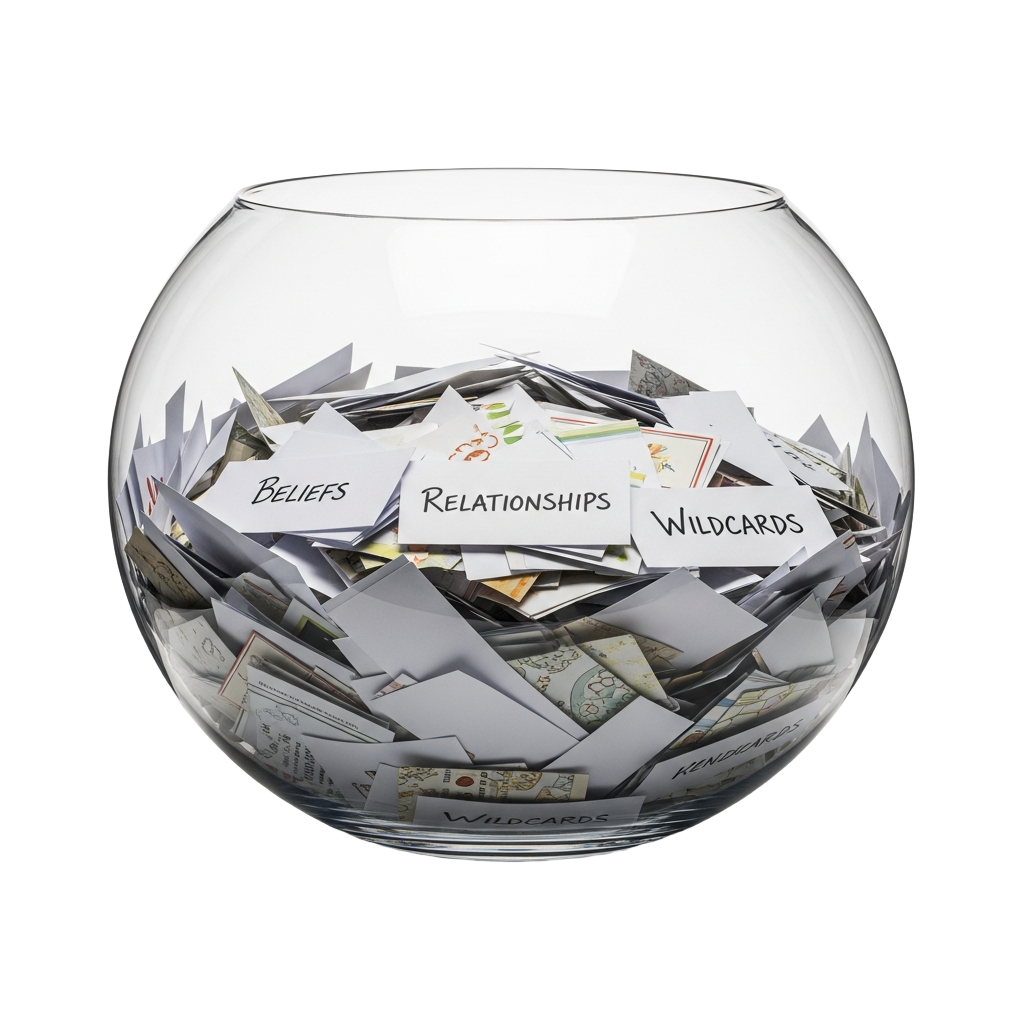
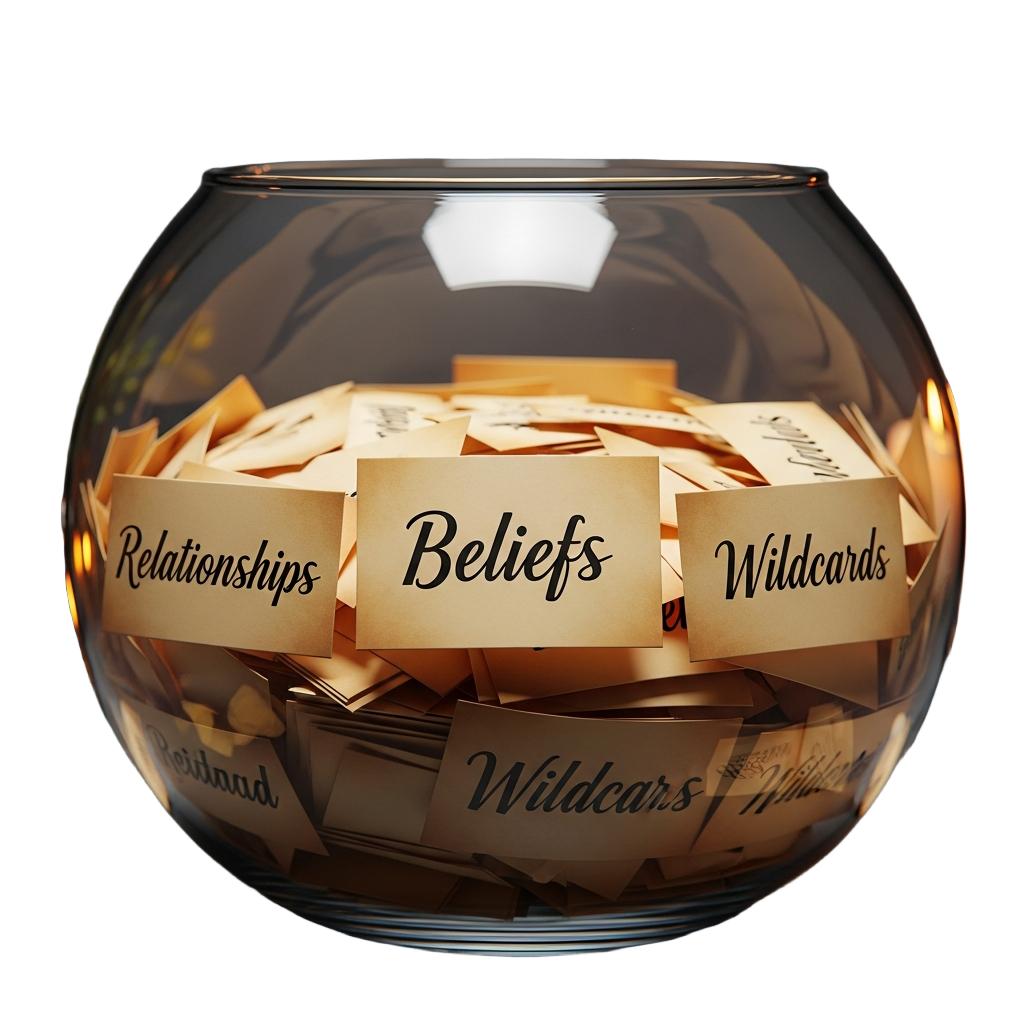
Task #5: Hero assets refresh — fishbowl (warm parchment slips), wine glass, mahogany library table
## What changed
1. Regenerated fishbowl.png: warm cream/parchment paper slips with dark serif "Beliefs", "Relationships", "Wildcards" labels, candlelit amber glow inside the bowl — now matches the IMG_9710 reference closely.
2. Generated wine-glass.png: tall elegant stemmed crystal white wine glass with pale straw-colored wine (~40% fill), RGBA transparent PNG. Replaced the lowball whiskey/bourbon glass completely.
3. Updated table surface CSS from a warm bar wood palette to a dark mahogany English estate library table: darker #1e0f07 base, polished amber top edge, decorative gilt/brass inlay stripe, deep grain lines, warm gloss sheen.

## Code changes (Home.tsx)
- `whiskeyImg` const renamed to `wineImg`, pointing to `wine-glass.png`
- `whiskeyErr`/`setWhiskeyErr` state renamed to `wineErr`/`setWineErr`
- Wine glass `<img>` section: updated src, alt text, error handler, and display width (`clamp(70px, 8.5vw, 120px)` — narrower to reflect the tall stemmed proportions)
- `WhiskeySVG` component replaced with `WineGlassSVG` (SVG fallback now renders a wine glass shape with gold-toned wine fill and delicate stem/base)
- Hero comment block updated to reference wine glass instead of whiskey glass

## No deviations
All three task objectives completed as specified. Sections below the hero (cards, platform links, email, footer) remain untouched. Sandra's photo masking/positioning is unchanged.

diff --git a/artifacts/fishbowl-roulette/src/pages/Home.tsx b/artifacts/fishbowl-roulette/src/pages/Home.tsx
@@ -4,7 +4,7 @@ import { motion } from 'framer-motion';
 const BASE = import.meta.env.BASE_URL;
 const sandraImg = `${BASE}images/sandra.jpg`;
 const fishbowlImg = `${BASE}images/fishbowl.png`;
-const whiskeyImg = `${BASE}images/whiskey-glass.png`;
+const wineImg = `${BASE}images/wine-glass.png`;
 const textureBg = `${BASE}images/dark-texture.png`;
 
 const Home = () => {
@@ -12,7 +12,7 @@ const Home = () => {
   const [menuOpen, setMenuOpen] = useState(false);
   const [emailSubmitted, setEmailSubmitted] = useState(false);
   const [fishbowlErr, setFishbowlErr] = useState(false);
-  const [whiskeyErr, setWhiskeyErr] = useState(false);
+  const [wineErr, setWineErr] = useState(false);
 
   useEffect(() => {
     const handleScroll = () => setIsScrolled(window.scrollY > 40);
@@ -95,7 +95,7 @@ const Home = () => {
           HERO
           - Full dark warm bar atmosphere background
           - Sandra upper-right, masked to show face only
-          - Fishbowl + whiskey glass at bottom-center-left on table
+          - Fishbowl + wine glass at bottom-center-left on table
       ═══════════════════════════════════════════ */}
       <section className="relative overflow-hidden" style={{ minHeight: '100svh' }}>
 
@@ -243,26 +243,36 @@ const Home = () => {
           </motion.div>
         </div>
 
-        {/* ── Table surface across bottom of hero ── */}
+        {/* ── Table surface: dark mahogany English estate library ── */}
         <div className="absolute inset-x-0 bottom-0" style={{
           height: 'clamp(55px, 8vw, 100px)',
           zIndex: 5,
-          background: 'linear-gradient(to bottom, #3a2510 0%, #4a3218 25%, #3d2a12 60%, #2a1a0a 100%)',
-          boxShadow: 'inset 0 8px 28px rgba(0,0,0,0.65)',
+          background: 'linear-gradient(to bottom, #1e0f07 0%, #2a1208 18%, #261007 55%, #1a0b05 100%)',
+          boxShadow: 'inset 0 10px 32px rgba(0,0,0,0.8)',
         }}>
-          {/* Table top edge highlight */}
+          {/* Polished top edge — mahogany highlight */}
           <div style={{
             position: 'absolute', inset: 0, top: 0, height: '2px',
-            background: 'linear-gradient(to right, transparent 0%, rgba(196,154,108,0.45) 25%, rgba(196,154,108,0.55) 50%, rgba(196,154,108,0.45) 75%, transparent 100%)',
+            background: 'linear-gradient(to right, transparent 0%, rgba(160,80,30,0.6) 20%, rgba(200,120,60,0.75) 50%, rgba(160,80,30,0.6) 80%, transparent 100%)',
           }} />
-          {/* Subtle wood grain */}
+          {/* Inlay band — decorative gilt/brass-toned stripe below top edge */}
+          <div style={{
+            position: 'absolute', left: 0, right: 0, top: '5px', height: '1px',
+            background: 'linear-gradient(to right, transparent 0%, rgba(196,154,108,0.3) 15%, rgba(196,154,108,0.5) 50%, rgba(196,154,108,0.3) 85%, transparent 100%)',
+          }} />
+          {/* Deep mahogany grain lines */}
           <div style={{
             position: 'absolute', inset: 0,
             background: `repeating-linear-gradient(90deg,
-              transparent 0px, transparent 60px,
-              rgba(255,200,120,0.025) 60px, rgba(255,200,120,0.025) 61px,
-              transparent 61px, transparent 130px
+              transparent 0px, transparent 80px,
+              rgba(80,20,5,0.18) 80px, rgba(80,20,5,0.18) 82px,
+              transparent 82px, transparent 180px
             )`,
+          }} />
+          {/* Warm gloss sheen */}
+          <div style={{
+            position: 'absolute', inset: 0,
+            background: 'linear-gradient(to bottom, rgba(180,80,20,0.06) 0%, transparent 50%)',
           }} />
         </div>
 
@@ -289,25 +299,25 @@ const Home = () => {
           )}
         </div>
 
-        {/* ── Whiskey glass — bottom, right of fishbowl ── */}
+        {/* ── Wine glass — bottom, right of fishbowl ── */}
         <div
           className="absolute"
           style={{
             bottom: 'clamp(40px, 5.5vw, 80px)',
             left: 'clamp(200px, 28vw, 410px)',
-            width: 'clamp(90px, 11vw, 158px)',
+            width: 'clamp(70px, 8.5vw, 120px)',
             zIndex: 10,
             filter: 'drop-shadow(0 12px 24px rgba(0,0,0,0.7))',
           }}
         >
-          {whiskeyErr ? (
-            <WhiskeySVG />
+          {wineErr ? (
+            <WineGlassSVG />
           ) : (
             <img
-              src={whiskeyImg}
-              alt="Whiskey on the rocks"
+              src={wineImg}
+              alt="White wine glass"
               style={{ width: '100%', display: 'block' }}
-              onError={() => setWhiskeyErr(true)}
+              onError={() => setWineErr(true)}
             />
           )}
         </div>
@@ -547,24 +557,36 @@ const FishbowlSVG = () => (
   </svg>
 );
 
-/* ─── Fallback SVG whiskey glass (if AI image fails) ─── */
-const WhiskeySVG = () => (
-  <svg viewBox="0 0 110 160" fill="none" style={{ width: '100%', display: 'block' }}>
+/* ─── Fallback SVG wine glass (if AI image fails) ─── */
+const WineGlassSVG = () => (
+  <svg viewBox="0 0 80 200" fill="none" style={{ width: '100%', display: 'block' }}>
     <defs>
-      <linearGradient id="wl" x1="0%" y1="0%" x2="100%" y2="100%">
-        <stop offset="0%" stopColor="#c87d30" />
-        <stop offset="60%" stopColor="#a0561a" />
-        <stop offset="100%" stopColor="#6b3510" />
+      <linearGradient id="wine" x1="0%" y1="0%" x2="100%" y2="100%">
+        <stop offset="0%" stopColor="#e8d88a" stopOpacity="0.85" />
+        <stop offset="100%" stopColor="#c8b850" stopOpacity="0.75" />
+      </linearGradient>
+      <linearGradient id="wglass" x1="0%" y1="0%" x2="100%" y2="0%">
+        <stop offset="0%" stopColor="#fff" stopOpacity="0.22" />
+        <stop offset="40%" stopColor="#fff" stopOpacity="0.06" />
+        <stop offset="100%" stopColor="#fff" stopOpacity="0.12" />
       </linearGradient>
     </defs>
-    <path d="M 18,18 L 10,140 Q 10,148 55,148 Q 100,148 100,140 L 92,18 Z"
-      fill="rgba(255,255,255,0.1)" stroke="#c9a87e" strokeWidth="2" strokeOpacity="0.5" />
-    <path d="M 20,68 L 14,140 Q 14,146 55,146 Q 96,146 96,140 L 90,68 Z" fill="url(#wl)" opacity="0.92" />
-    <ellipse cx="55" cy="68" rx="35" ry="7" fill="#c87d30" opacity="0.9" />
-    <rect x="35" y="73" width="28" height="20" rx="3" fill="rgba(200,220,255,0.4)" stroke="rgba(255,255,255,0.4)" strokeWidth="1" />
-    <path d="M 20,22 L 13,100" stroke="#fff" strokeWidth="5" strokeOpacity="0.2" strokeLinecap="round" fill="none" />
-    <ellipse cx="55" cy="18" rx="38" ry="8" fill="none" stroke="#d4bfa8" strokeWidth="2" strokeOpacity="0.75" />
-    <ellipse cx="55" cy="147" rx="44" ry="8" fill="#3d2510" stroke="#c9a87e" strokeWidth="1.5" strokeOpacity="0.5" />
+    {/* Bowl */}
+    <path d="M 14,14 Q 8,55 8,75 Q 8,110 40,118 Q 72,110 72,75 Q 72,55 66,14 Z"
+      fill="url(#wglass)" stroke="#d4c8a0" strokeWidth="1.5" strokeOpacity="0.55" />
+    {/* Wine fill */}
+    <path d="M 13,72 Q 11,105 40,114 Q 69,105 67,72 Z" fill="url(#wine)" opacity="0.9" />
+    {/* Wine surface shimmer */}
+    <ellipse cx="40" cy="72" rx="27" ry="5.5" fill="#e8d88a" opacity="0.55" />
+    {/* Rim highlight */}
+    <ellipse cx="40" cy="14" rx="26" ry="5" fill="none" stroke="#e0d4b0" strokeWidth="1.5" strokeOpacity="0.6" />
+    {/* Glass highlight */}
+    <path d="M 18,20 Q 14,60 14,80" stroke="#fff" strokeWidth="4" strokeOpacity="0.18" strokeLinecap="round" fill="none" />
+    {/* Stem */}
+    <line x1="40" y1="118" x2="40" y2="178" stroke="#c9b898" strokeWidth="2.5" strokeOpacity="0.7" />
+    {/* Base */}
+    <ellipse cx="40" cy="180" rx="28" ry="6" fill="none" stroke="#c9b898" strokeWidth="2" strokeOpacity="0.6" />
+    <ellipse cx="40" cy="180" rx="28" ry="4" fill="rgba(196,154,108,0.1)" />
   </svg>
 );
 
